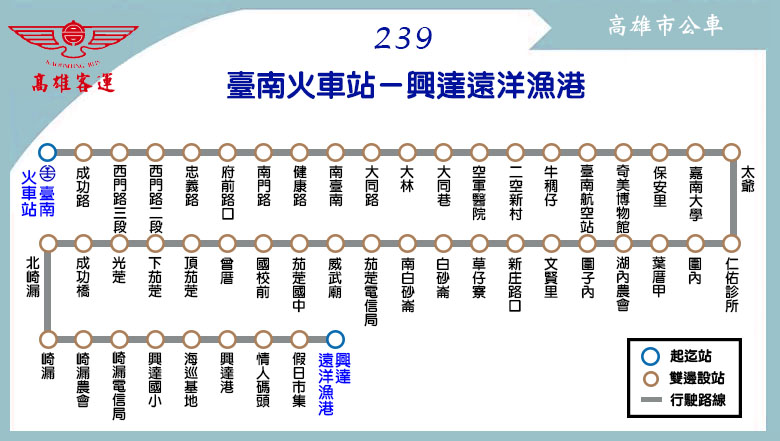
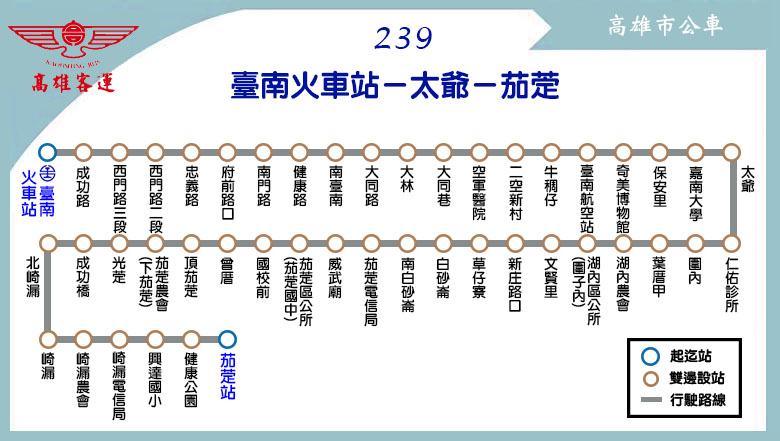
更新路線圖及時刻表：高雄客運239路(裁撤「興達遠洋漁港-海巡基地」區間各站，新增「茄萣站」、「健康公園」)

diff --git a/route/fare_and_time/city_bus_239.js b/route/fare_and_time/city_bus_239.js
@@ -1,4 +1,4 @@
-city_bus_239_interval_name = ["臺南<br />火車站","府前路口","南臺南","二空新村","臺南<br />航空站","奇美<br />博物館","嘉南大學","太爺","新庄路口","白砂崙","下茄萣","成功橋","崎漏","興達港"];
+city_bus_239_interval_name = ["臺南<br />火車站","府前路口","南臺南","二空新村","臺南<br />航空站","奇美<br />博物館","嘉南大學","太爺","新庄路口","白砂崙","下茄萣","成功橋","崎漏"];
 city_bus_239_interval_stop = [
 ["臺南火車站","成功路"], // 臺南火車站
 ["西門路三段","西門路二段","忠義路","府前路口"], // 府前路口
@@ -12,8 +12,7 @@ city_bus_239_interval_stop = [
 ["草仔寮","白砂崙","南白砂崙","茄萣電信局"], // 白砂崙
 ["威武廟","茄萣國中","國校前","曾厝","頂茄萣","下茄萣"], // 下茄萣
 ["光萣","成功橋"], // 成功橋
-["北崎漏","崎漏","崎漏農會","崎漏電信局","興達國小","海巡基地"], // 崎漏
-["興達港","情人碼頭","假日市集","興達遠洋漁港"] // 興達遠洋漁港
+["北崎漏","崎漏","崎漏農會","崎漏電信局","興達國小","健康公園","茄萣站"] // 崎漏
 ];
 city_bus_239_fare = [
 [12],
@@ -28,11 +27,10 @@ city_bus_239_fare = [
 [24,24,24,24,24,24,12,12,12,12],
 [24,24,24,24,24,24,24,12,12,12,12],
 [24,24,24,24,24,24,24,24,12,12,12,12],
-[24,24,24,24,24,24,24,24,24,12,12,12,12],
-[24,24,24,24,24,24,24,24,24,24,12,12,12,12]
+[24,24,24,24,24,24,24,24,24,12,12,12,12]
 ];
-city_bus_239_main_stop_name = ["臺南<br />火車站","大林","奇美<br />博物館","嘉南大學","太爺","湖內農會","威武廟","下茄萣","興達<br />遠洋漁港"];
-city_bus_239_main_stop_time_consume = [0,25,35,40,43,45,55,60,70];
-city_bus_239_important_stop = [0,2,6,8]; // 臺南火車站, 奇美博物站, 威武廟, 興達遠洋漁港
+city_bus_239_main_stop_name = ["臺南<br />火車站","大林","奇美<br />博物館","嘉南大學","太爺","湖內農會","威武廟","下茄萣","茄萣站"];
+city_bus_239_main_stop_time_consume = [0,25,35,40,43,45,55,60,65];
+city_bus_239_important_stop = [0,2,6,8]; // 臺南火車站, 奇美博物館, 威武廟, 茄萣站
 city_bus_239_time_go = [["07:20"],["10:20"],["14:20"],["17:20"]];
-city_bus_239_time_return = [["06:10"],["09:10"],["13:10"],["16:10"]];
+city_bus_239_time_return = [["06:15"],["09:05"],["13:05"],["16:05"]];

diff --git a/tools/route_infor.js b/tools/route_infor.js
@@ -115,7 +115,7 @@ urban_20_route = '南紡購物中心 ─ 安南醫院 ─ 海東國小';
 urban_21_route = '臺南火車站 ─ 鹽行 ─ 永康工業區';
 urban_77_route = '安平原住民文化會館 ─ 南紡購物中心';
 urban_77_1_route = '原住民文化會館 ─ 安平古堡、億載金城<br /><div class="sub_title">安平環線假日公車</div>';
-urban_239_route = '臺南火車站 ─ 太爺 ─ 茄萣 ─ 興達港';
+urban_239_route = '臺南火車站 ─ 太爺 ─ 茄萣';
 
 tourist_33_route = '新營 ─ 故宮南院 ─ 高鐵嘉義站 ─ 關子嶺　<div class="sub_title">關子嶺故宮南院線</div>';
 tourist_88_route = '臺南公園 ─ 觀夕平台　<div class="sub_title">安平線</div>';

diff --git a/urban/239.html b/urban/239.html
@@ -7,9 +7,9 @@
 	route_name_en = 'No.239';
 	route_file_name = 'city_bus_239';
 	route_type = 'city_bus';
-	route_interval = ['臺南火車站','太爺','興達遠洋漁港'];
+	route_interval = ['臺南火車站','太爺','茄萣'];
 	route_start_stop = '臺南火車站';
-	route_end_stop = '興達遠洋漁港';
+	route_end_stop = '茄萣站';
 </script>
 <script src="../tools/web_model.js"></script> 
 <script type="text/javascript">
